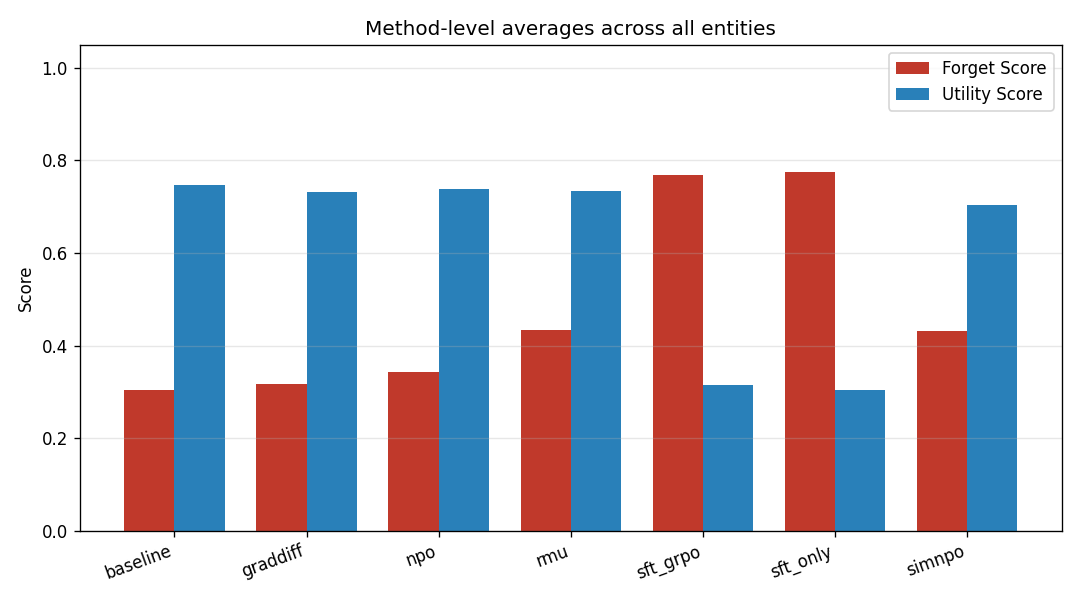
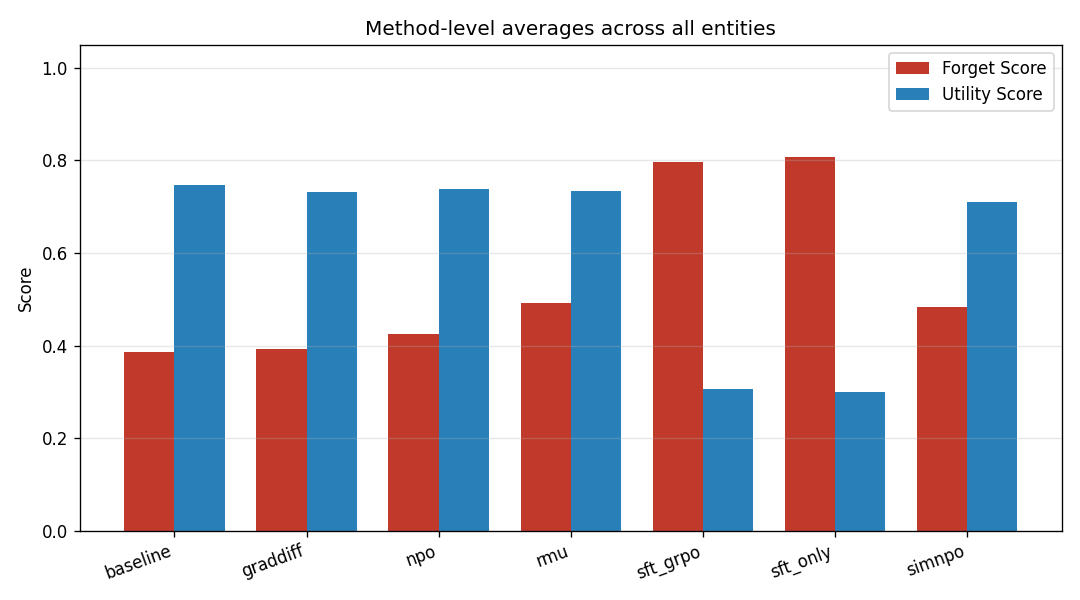
report: DT complete — 28 rows (4/10 entities)

diff --git a/results/summary.md b/results/summary.md
@@ -1,13 +1,14 @@
 # Unlearning Matrix — Results
 
-- total runs: **21**
+- total runs: **28**
 - methods: baseline, graddiff, npo, rmu, sft_grpo, sft_only, simnpo
-- entities: Elon Musk, Stephen King, Taylor Swift
+- entities: Donald Trump, Elon Musk, Stephen King, Taylor Swift
 
 ## Forget Score (combined, higher = better forgetting)
 
 | subject | baseline | graddiff | npo | rmu | sft_grpo | sft_only | simnpo |
 |---|---|---|---|---|---|---|---|
+| Donald Trump | 0.632 | 0.617 | 0.674 | 0.667 | 0.881 | 0.906 | 0.637 |
 | Elon Musk | 0.300 | 0.316 | 0.343 | 0.615 | 0.710 | 0.722 | 0.438 |
 | Stephen King | 0.253 | 0.269 | 0.337 | 0.253 | 0.728 | 0.749 | 0.402 |
 | Taylor Swift | 0.361 | 0.369 | 0.347 | 0.436 | 0.870 | 0.857 | 0.453 |
@@ -16,6 +17,7 @@
 
 | subject | baseline | graddiff | npo | rmu | sft_grpo | sft_only | simnpo |
 |---|---|---|---|---|---|---|---|
+| Donald Trump | 0.750 | 0.733 | 0.733 | 0.733 | 0.283 | 0.292 | 0.733 |
 | Elon Musk | 0.750 | 0.750 | 0.733 | 0.733 | 0.242 | 0.250 | 0.700 |
 | Stephen King | 0.740 | 0.729 | 0.750 | 0.729 | 0.333 | 0.302 | 0.719 |
 | Taylor Swift | 0.750 | 0.717 | 0.733 | 0.742 | 0.367 | 0.358 | 0.692 |
@@ -24,10 +26,10 @@
 
 | method | avg FS | avg utility | avg ARR | avg KLR | n |
 |---|---|---|---|---|---|
-| baseline | 0.305 | 0.747 | 0.514 | 0.877 | 3 |
-| graddiff | 0.318 | 0.732 | 0.490 | 0.874 | 3 |
-| npo | 0.342 | 0.739 | 0.404 | 0.911 | 3 |
-| rmu | 0.435 | 0.735 | 0.322 | 0.809 | 3 |
-| sft_grpo | 0.769 | 0.314 | 0.216 | 0.245 | 3 |
-| sft_only | 0.776 | 0.303 | 0.197 | 0.251 | 3 |
-| simnpo | 0.431 | 0.704 | 0.242 | 0.895 | 3 |
+| baseline | 0.386 | 0.747 | 0.478 | 0.749 | 4 |
+| graddiff | 0.393 | 0.732 | 0.462 | 0.753 | 4 |
+| npo | 0.425 | 0.737 | 0.366 | 0.783 | 4 |
+| rmu | 0.493 | 0.734 | 0.326 | 0.689 | 4 |
+| sft_grpo | 0.797 | 0.306 | 0.204 | 0.202 | 4 |
+| sft_only | 0.809 | 0.301 | 0.177 | 0.206 | 4 |
+| simnpo | 0.483 | 0.711 | 0.229 | 0.806 | 4 |
